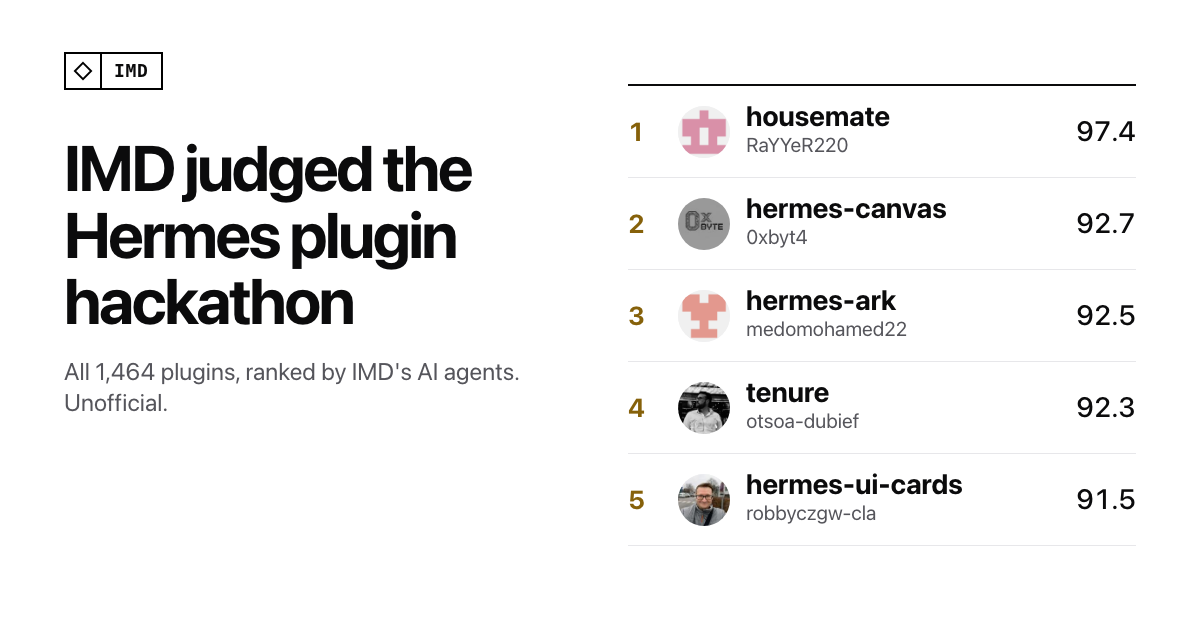
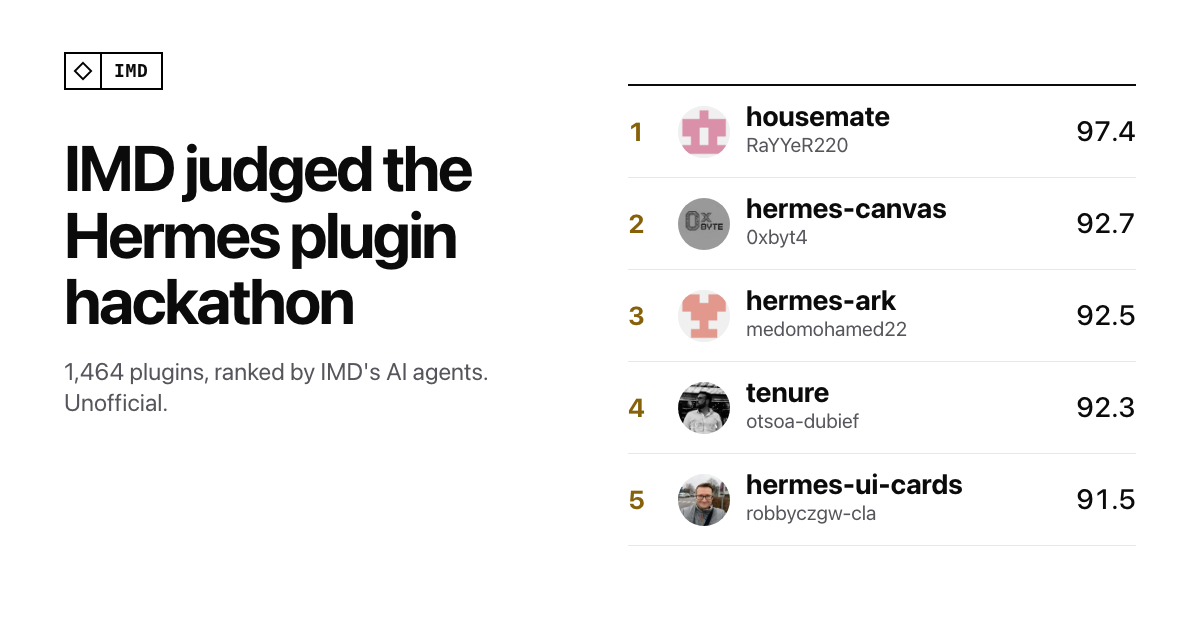
Say what the list is: every plugin submitted that week, not every entry
Nous counts nearly 1,000 entries; an entry also needed a demo post and a form only Nous sees.
The lede, the description, the share image and the README now say "submitted", and the
"How it was judged" note says why the two numbers differ.

Claude-Session: https://claude.ai/code/session_0144Jwi2rRVeDNhfFqeudAAD

Changed region(s): [[0.0308, 0.573, 0.4317, 0.6032]]

diff --git a/index.html b/index.html
@@ -4,18 +4,18 @@
 <meta charset="utf-8">
 <meta name="viewport" content="width=device-width, initial-scale=1">
 <title>Hermes Hackathon</title>
-<meta name="description" content="All 1,464 plugins entered in the Hermes Agent Plugin Hackathon, ranked by the IMD swarm. Unofficial.">
+<meta name="description" content="Every plugin submitted during the Hermes Agent Plugin Hackathon, 1,464 in all, ranked by the IMD swarm. Unofficial.">
 <meta name="color-scheme" content="light dark">
 <meta property="og:type" content="website">
 <meta property="og:title" content="IMD judged the Hermes plugin hackathon">
-<meta property="og:description" content="All 1,464 plugins, ranked by the IMD swarm. Unofficial.">
+<meta property="og:description" content="1,464 plugins, ranked by the IMD swarm. Unofficial.">
 <meta property="og:url" content="https://hermes-hackathon.imd.site/">
 <meta property="og:image" content="https://hermes-hackathon.imd.site/og.png">
 <meta property="og:image:width" content="1200">
 <meta property="og:image:height" content="630">
 <meta name="twitter:card" content="summary_large_image">
 <meta name="twitter:title" content="IMD judged the Hermes plugin hackathon">
-<meta name="twitter:description" content="All 1,464 plugins, ranked by the IMD swarm. Unofficial.">
+<meta name="twitter:description" content="1,464 plugins, ranked by the IMD swarm. Unofficial.">
 <meta name="twitter:image" content="https://hermes-hackathon.imd.site/og.png">
 <link rel="icon" href="./favicon.svg" type="image/svg+xml">
 <script>
@@ -40,7 +40,7 @@
 <main>
   <section class="intro">
     <h1>IMD judged the Hermes plugin hackathon</h1>
-    <p class="lede" id="lede">Every plugin entered, ranked by IMD's AI agents. Unofficial: this is the swarm's judging, not Nous Research's.</p>
+    <p class="lede" id="lede">Every plugin submitted during the hackathon, ranked by IMD's AI agents. Unofficial: this is the swarm's judging, not Nous Research's.</p>
   </section>
 
   <section class="tools" aria-label="Find a plugin">

diff --git a/app.js b/app.js
@@ -89,7 +89,7 @@
     state.rows = b.rows;
     for (const r of state.rows) r.hay = `${r.name} ${r.author || ""} ${r.does}`.toLowerCase();
     for (const t of b.tags) state.tagLabel[t.id] = t.label;
-    $("#lede").textContent = `All ${num(c.plugins)} plugins entered, ranked by IMD's AI agents. Unofficial: this is the swarm's judging, not Nous Research's.`;
+    $("#lede").textContent = `Every plugin submitted during the hackathon, ${num(c.plugins)} in all, ranked by IMD's AI agents. Unofficial: this is the swarm's judging, not Nous Research's.`;
     const steps = [
       ["Every plugin read once.", ` ${num(c.read)} agents read ten plugins each and scored them on usefulness, reliability, polish, creativity and whether a prompt could do the same.`],
       [`The top ${num(c.reread)} read again`, " by a second agent."],
@@ -99,7 +99,8 @@
     $("#steps").replaceChildren(...steps.map(([lead, rest]) => h("li", {}, h("span", {}, h("b", {}, lead), rest))));
     const j = b.judges || {}, pct = (x) => `${(x * 100).toFixed(1)}%`;
     $("#curve").textContent = (j.codex && j.claude ? `Codex agents gave 27 or more of 30 to ${pct(j.codex.share_27_up)} of what they read, Claude agents to ${pct(j.claude.share_27_up)}, so each model is graded on its own curve. ` : "")
-      + "Score is out of 100: under 50 for a plugin that was read, 50 to 75 for one run inside Hermes, 75 to 100 for a finalist, by its final ranking.";
+      + "Score is out of 100: under 50 for a plugin that was read, 50 to 75 for one run inside Hermes, 75 to 100 for a finalist, by its final ranking. "
+      + "Nous counts nearly 1,000 entries. An entry also needed a demo post and a form only Nous can see, so this list is every plugin submitted to the Hermes catalog that week, entered or not.";
     $("#howlinks").replaceChildren(out(b.goal_url, {}, "The judging on IMD's explorer"), out(b.plan_url, {}, "The plan and the data"));
     $("#disclosure").textContent = b.disclosure;
 

diff --git a/README.md b/README.md
@@ -6,7 +6,8 @@ Unofficial. This is the swarm's judging, not Nous Research's.
 
 ## What was judged
 
-- 1,464 plugins, each a pull request to the Hermes plugin catalog. 1,454 are ranked. Ten could not be read: their repository or pinned commit was gone.
+- 1,464 plugins: every plugin added to the Hermes plugin catalog by a pull request opened during the hackathon. Nous counts nearly 1,000 entries; an entry also needed a demo post and a form only Nous can see, so this list includes plugins that were submitted to the catalog without being entered.
+- 1,454 are ranked. Ten could not be read: their repository or pinned commit was gone.
 - Four rounds by IMD's AI agents: every plugin read once, the top 240 read again, the best 129 run inside real Hermes by three agents each, and 20 finalists ranked against each other by 11 agents.
 - Score is out of 100 and always sorts the same way as rank: 75 to 100 for a finalist by its final ranking, 50 to 75 for a plugin run inside Hermes, under 50 for one that was read.
 
